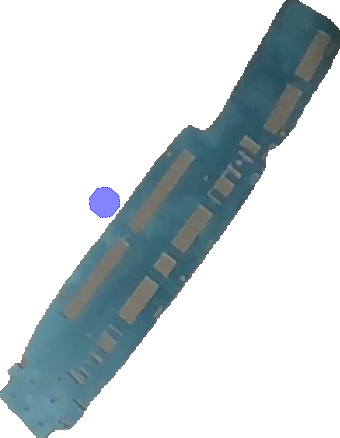
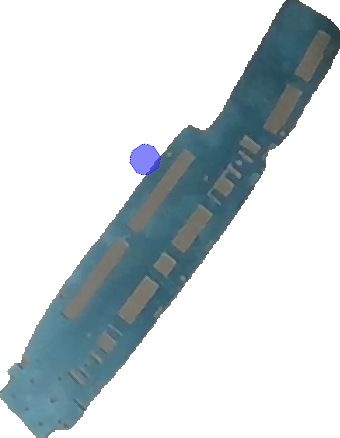
Compact ML offset problem (unresolved).

Changed region(s): [[0.3824, 0.3265, 0.4706, 0.4155], [0.2647, 0.4155, 0.3529, 0.5046]]

diff --git a/solution/utils.py b/solution/utils.py
@@ -156,9 +156,9 @@ def evaluate_model(model, test_dataloader):
 def convert_to_convention(source, x, y, rotation):
     match source:
         case "ANALYTICAL":
-            return x, y, 360 - rotation
+            return x, y, (360 - rotation) % 360
         case "COMPACT":
-            return abs(x), abs(y), 360 - rotation
+            return abs(x), abs(y), (360 - rotation) % 360
 
 def ML_prediction(part_path, gripper_path, output_path, model):
     # with open(input_csv, "r") as f:
@@ -182,11 +182,12 @@ def ML_prediction(part_path, gripper_path, output_path, model):
         # print(prediction[0], prediction, labels, filenames)
         # for filename, prediction, label in zip(filenames, predictions, labels):
         if prediction[0] == 1:
+            position = convert_to_convention("COMPACT", shift_x, shift_y, rotation)
             #print(abs(shift_x), abs(shift_y), abs(rotation))
             # write the results to a CSV file
             with open("solution/results.csv", "a") as f:
                 writer = csv.writer(f)
-                writer.writerow([part_path, gripper_path, abs(shift_x), abs(shift_y), abs(rotation)])
+                writer.writerow([part_path, gripper_path, position[0], position[1], position[2]])
                 # empty the output_path folder after writing the results to the CSV file
                 # image = Image.open(image_path)
                 # image.show()
